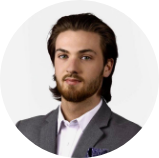
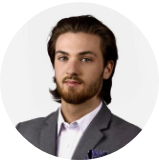
update core team images

diff --git a/src/containers/AboutUs/index.js b/src/containers/AboutUs/index.js
@@ -90,8 +90,16 @@ const AboutUs = () => {
                         </div>
                     </div>
                 }
-                {i === 2 && <div className='thumb-col'><div className='image-circle'><img src={TeamThumb2} alt='Mick Misamu' /></div> <div className='thumb-bottom'>Farrah Mettler</div>
-                    <div className='thumb-designation'><span></span> CMO</div></div>}
+                {i === 2 &&
+                    <div className='thumb-col'>
+                        <div className='image-circle'>
+                            <img src={TeamThumb2} alt='Mick Misamu' />
+                        </div>
+                        <div className='thumb-bottom'>Farrah Mettler</div>
+                        <div className='thumb-designation'>
+                            <span></span> CMO
+                        </div>
+                    </div>}
                 {i === 3 &&
                     <div className='thumb-col'>
                         <div className='image-circle'>
@@ -102,10 +110,26 @@ const AboutUs = () => {
                             <span></span> CFO
                         </div>
                     </div>}
-                { i === 4 && <div className='thumb-col'><div className='image-circle'><img src={TeamThumb5} alt='Andrea Bello' /></div> <div className='thumb-bottom'>Andrea Bello</div>
-                    <div className='thumb-designation'><span></span> COO & CTO</div></div>} 
-                { i === 5 && <div className='thumb-col'><div className='image-circle'><img src={TeamThumb6} alt='IKA NUR AFFIFAH' /></div> <div className='thumb-bottom'>Ika Affifah</div>
-                    <div className='thumb-designation'><span></span> CBDO</div></div>}
+                {i === 4 &&
+                    <div className='thumb-col'>
+                        <div className='image-circle'>
+                            <img src={TeamThumb5} alt='Andrea Bello' />
+                        </div>
+                        <div className='thumb-bottom'>Andrea Bello</div>
+                        <div className='thumb-designation'>
+                            <span></span> COO & CTO
+                        </div>
+                    </div>}
+                {i === 5 &&
+                    <div className='thumb-col'>
+                        <div className='image-circle'>
+                            <img src={TeamThumb6} alt='IKA NUR AFFIFAH' />
+                        </div>
+                        <div className='thumb-bottom'>Ika Affifah</div>
+                        <div className='thumb-designation'>
+                            <span></span> CBDO
+                        </div>
+                    </div>}
             </div>
         )
     };
@@ -227,7 +251,7 @@ const AboutUs = () => {
                                 {/* <div className='play-icon'><SvgIcon name='play' viewbox='0 0 23 30.001' /></div> */}
                                 {/* <img src={videoimg} alt='video-img' /> */}
                                 <iframe src="https://www.youtube.com/embed/aZx5E3QVL0M" title="video"
-                                    width="100%" allowTransparency={true} allowFullScreen={true} style={{ height: "52vw", border: "0px" }}></iframe>
+                                    width="100%" allowTransparency={true} style={{ height: "52vw", border: "0px" }}></iframe>
                                 {/* <iframe width="420" height="315"
                                     src="https://www.youtube.com/embed/tgbNymZ7vqY?playlist=tgbNymZ7vqY&loop=1">
                                 </iframe> */}
@@ -394,7 +418,7 @@ const AboutUs = () => {
                                                 <div className='designation'><Divider /> CBDO </div>
                                                 <p>{t("about_us:ika")}</p>
                                                 <div className='social-icons'>
-                                                             <a href="https://www.linkedin.com/in/ika-nur-afifah" target="_blank" rel="noreferrer">
+                                                    <a href="https://www.linkedin.com/in/ika-nur-afifah" target="_blank" rel="noreferrer">
                                                         <SvgIcon name='linkedin' viewbox='0 0 32.001 32.001' />
                                                     </a>
                                                 </div>

diff --git a/src/containers/AboutUs/index.scss b/src/containers/AboutUs/index.scss
@@ -521,6 +521,9 @@
             }
             .slider-right {
               width: 50%;
+              @media screen and (max-width: 767px) {
+                width: 80%;
+              }
               img {
                 width: 100%;
                 height: 100%;
